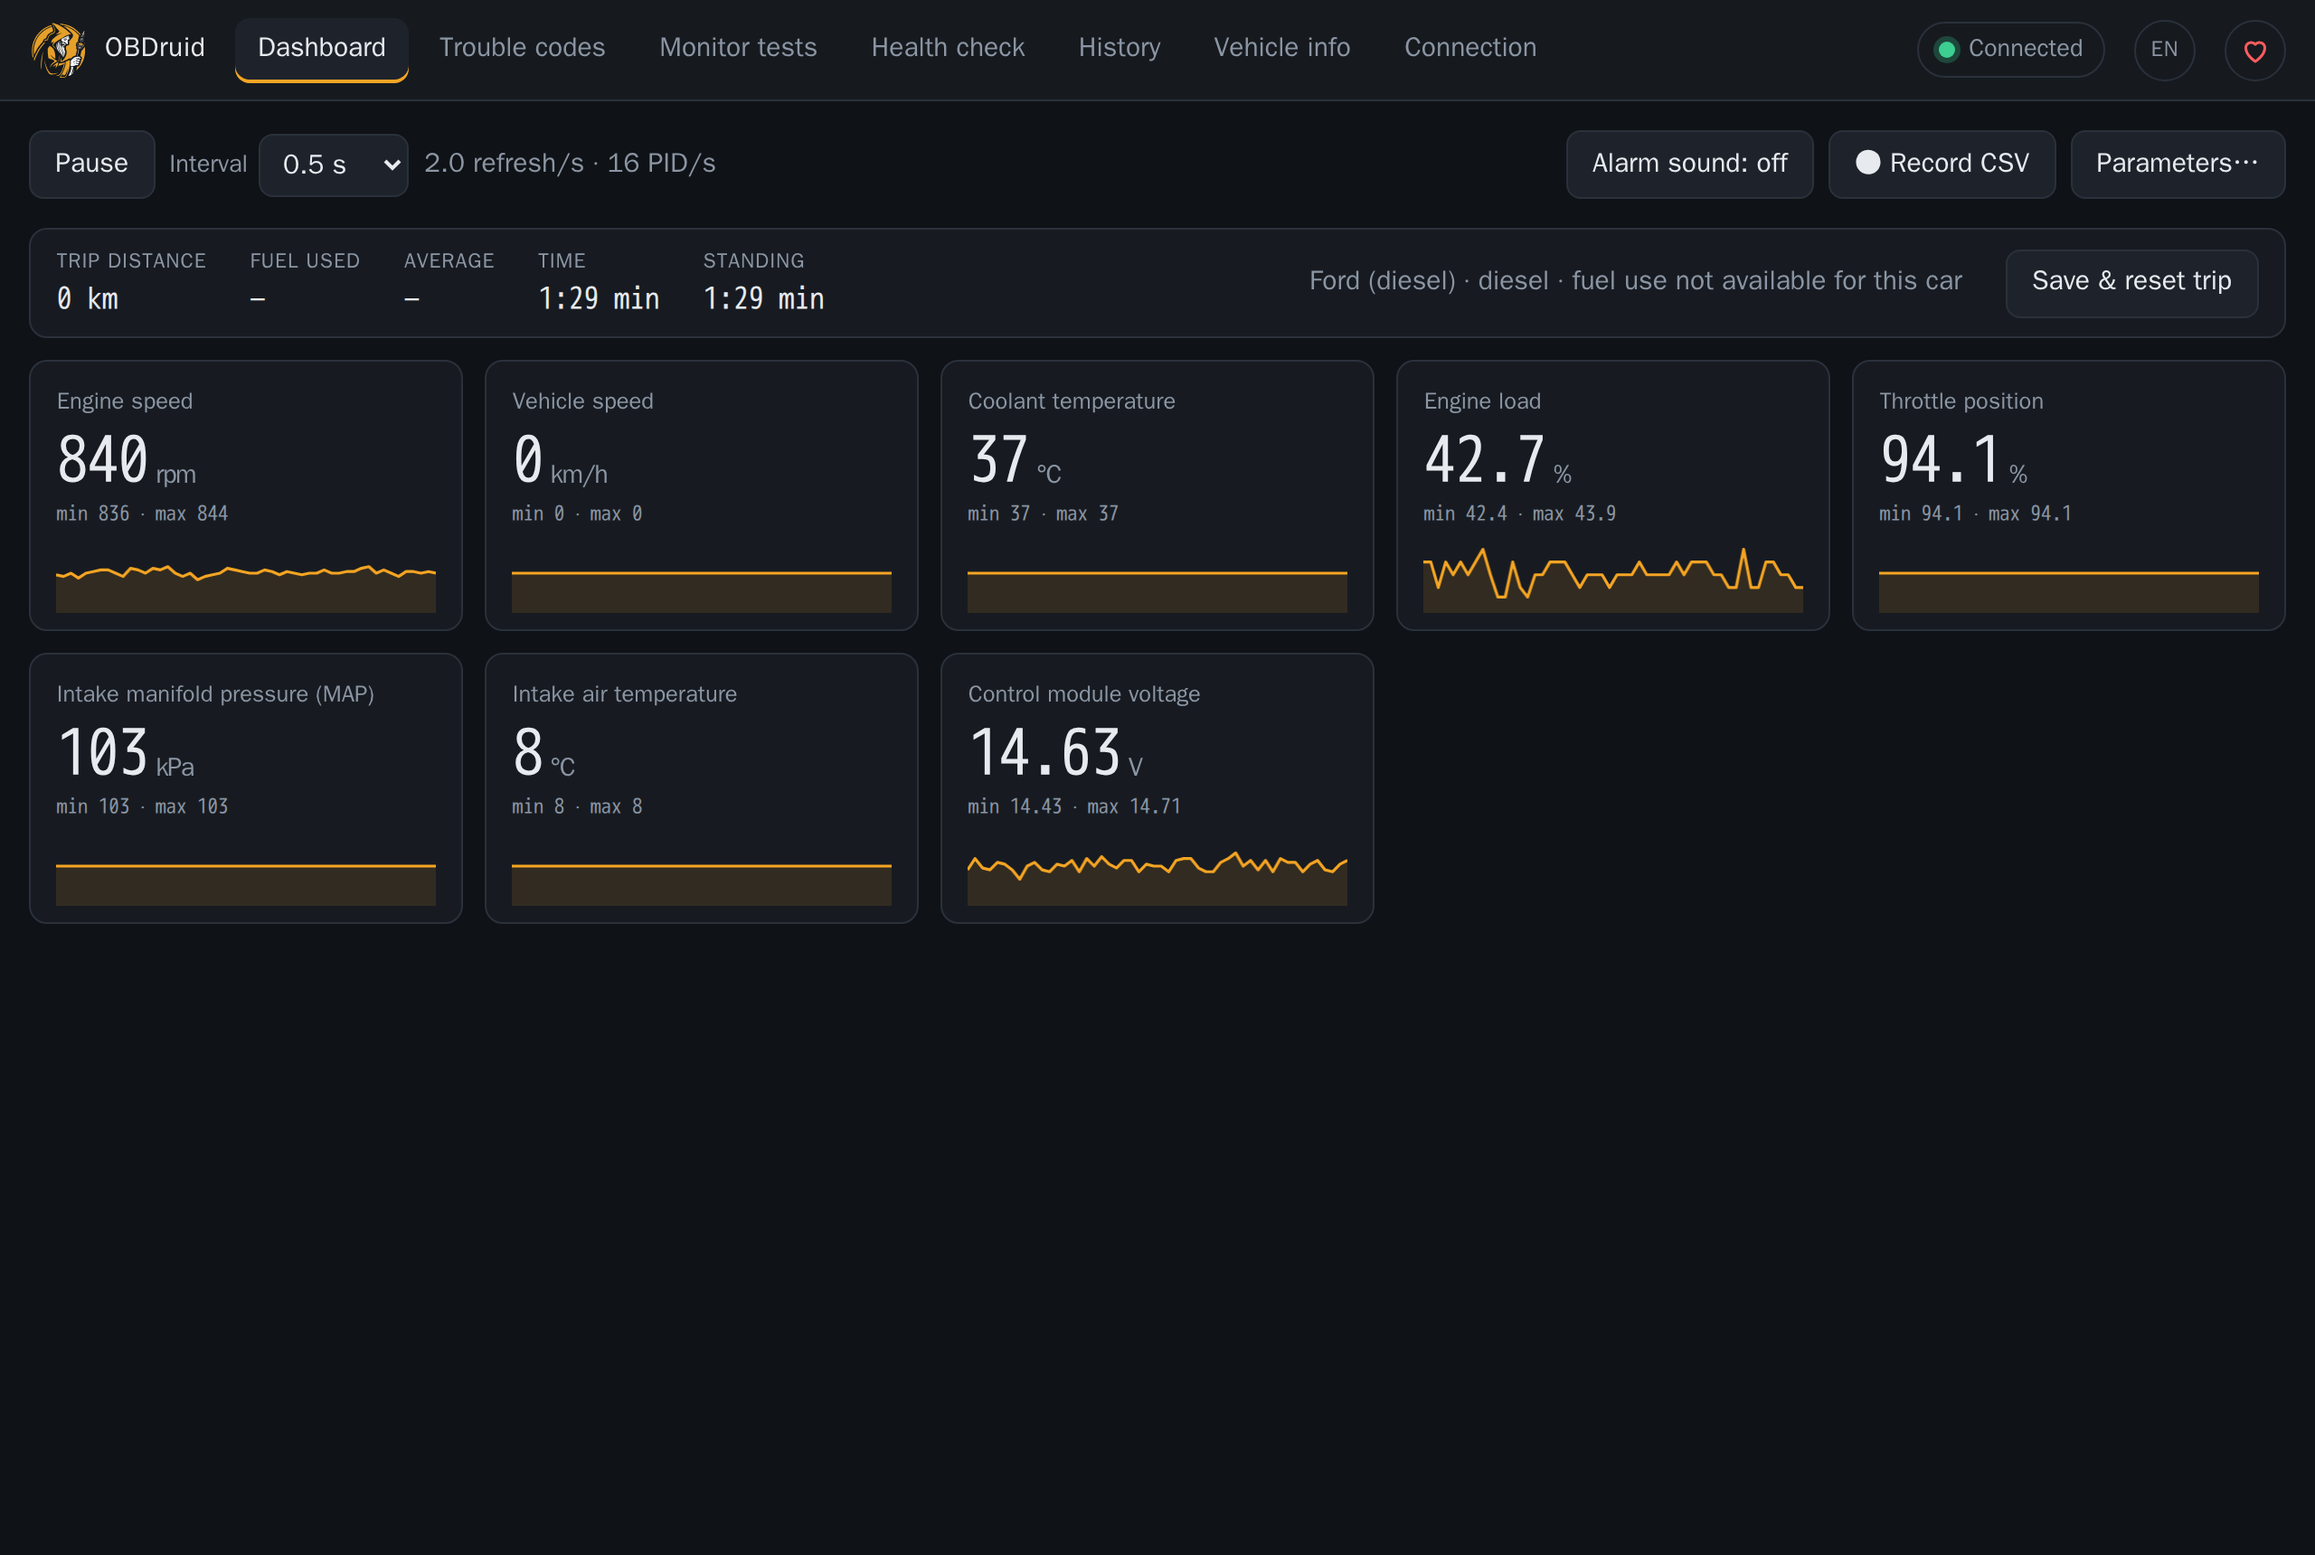
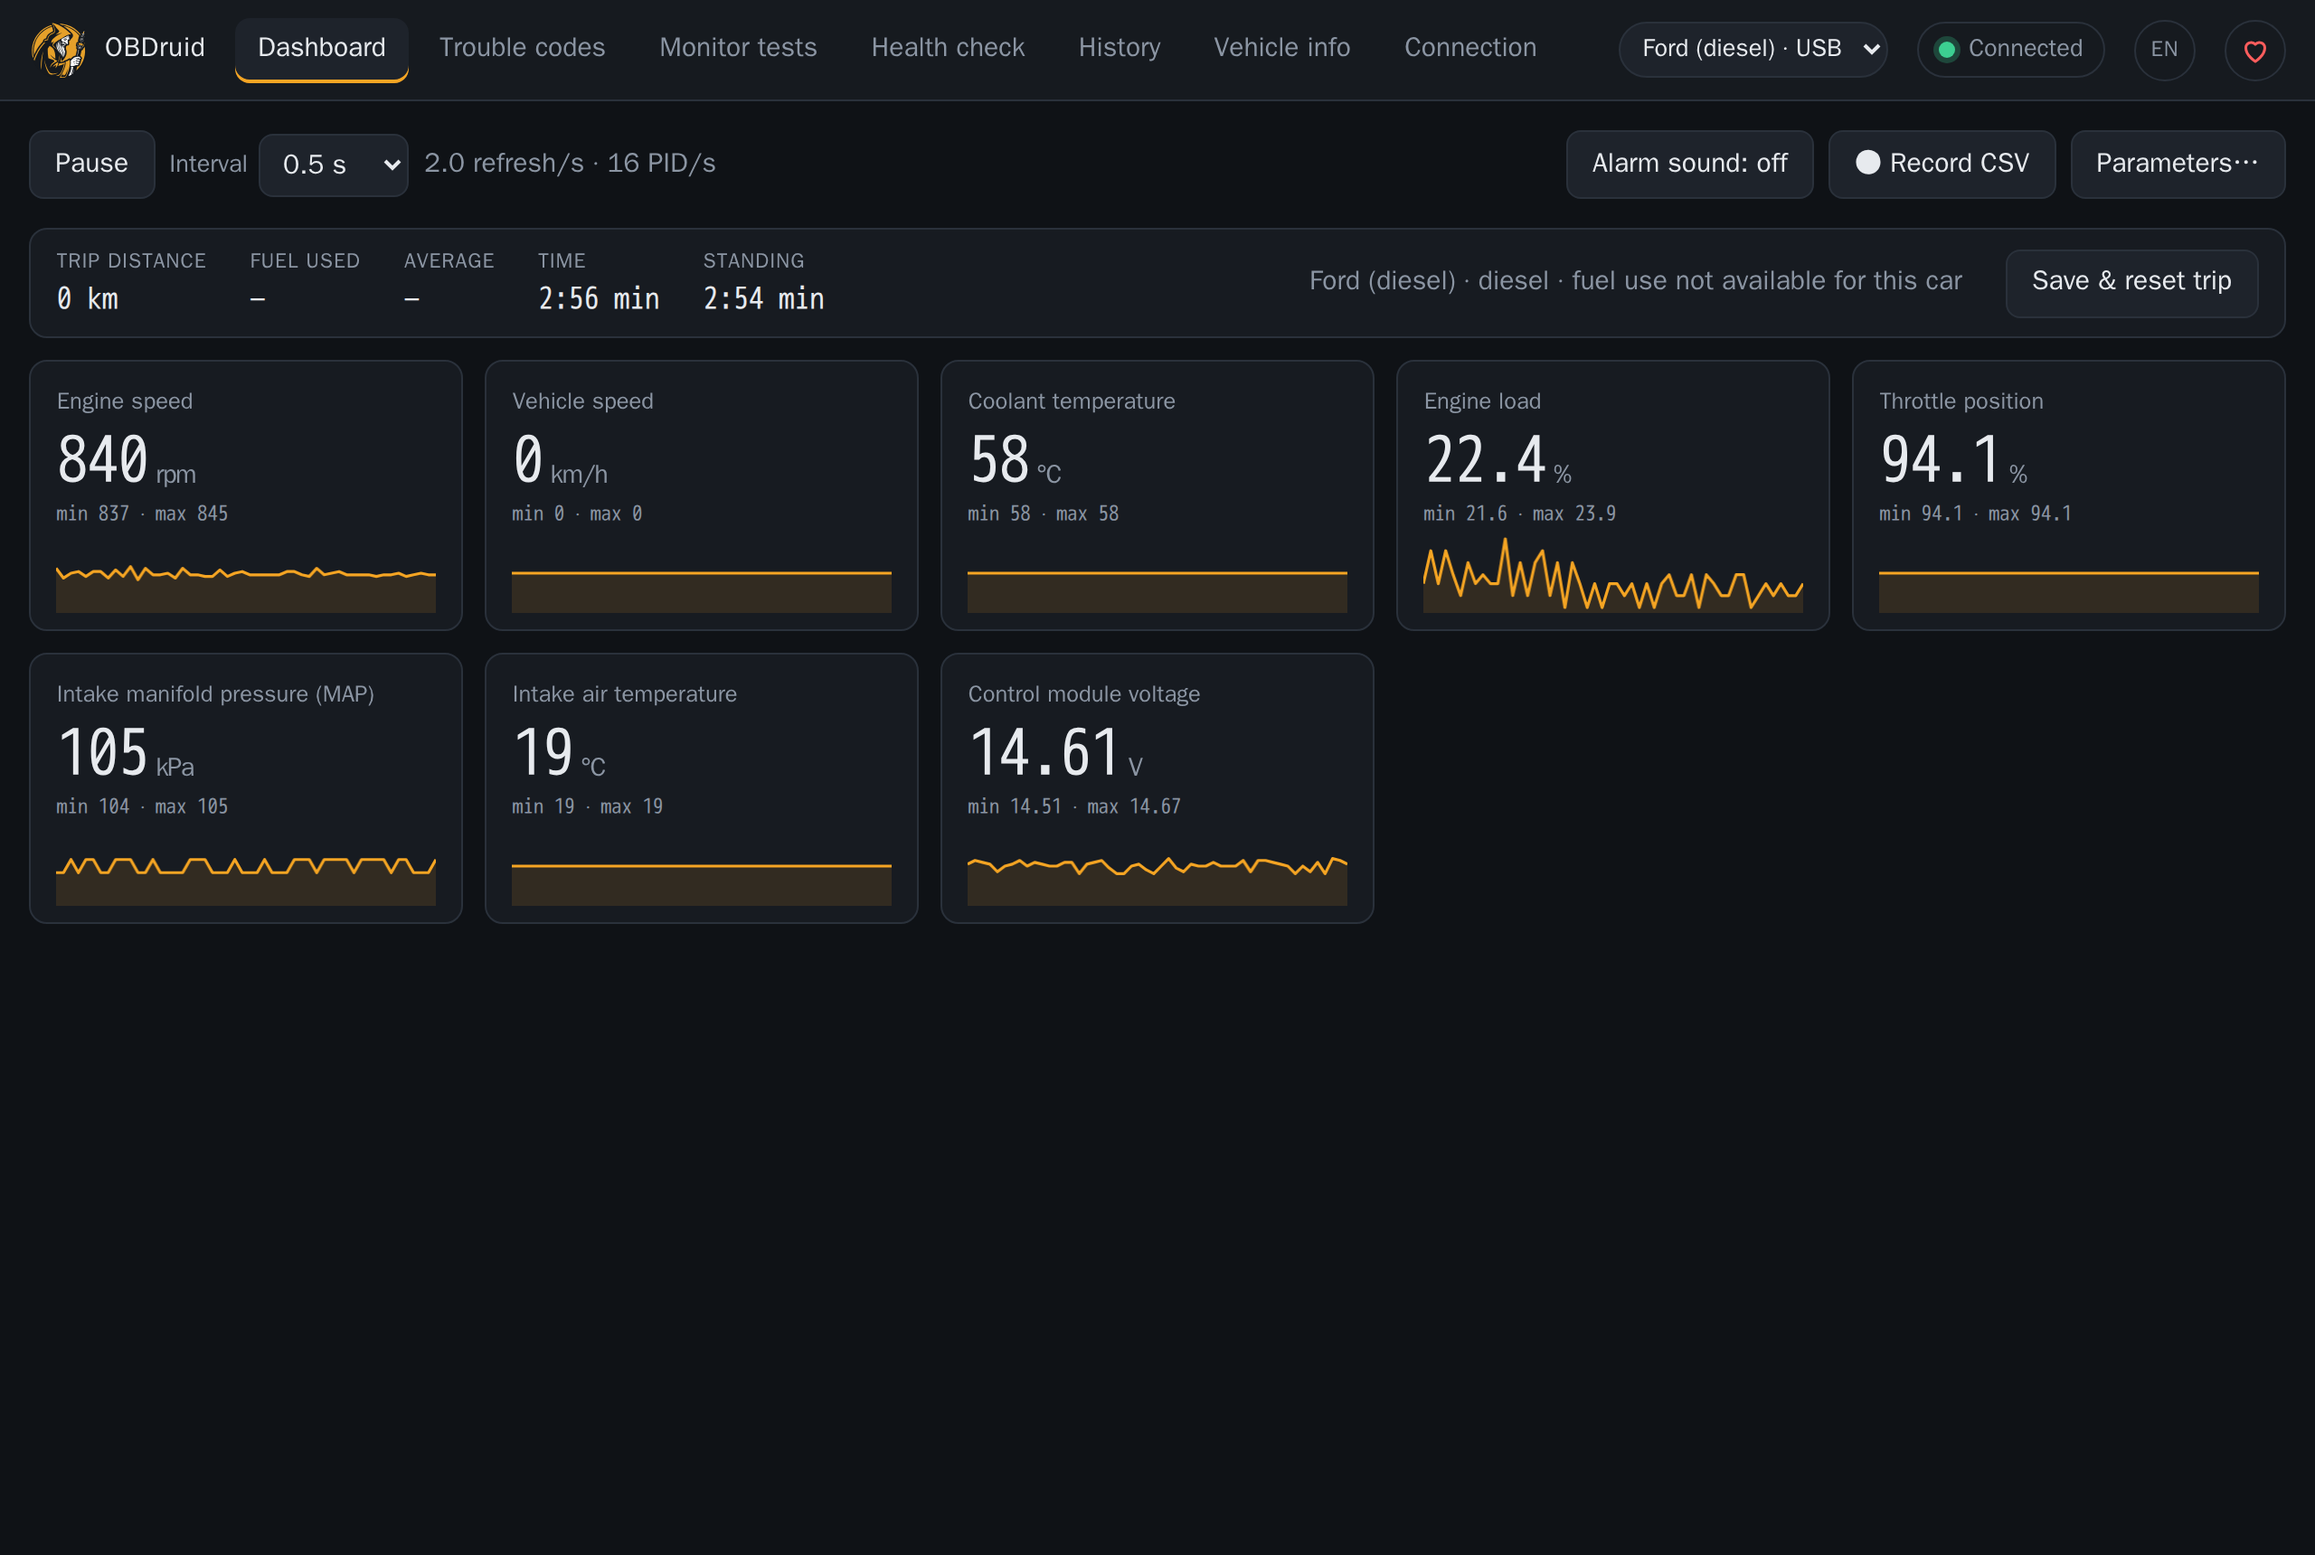
Real-car screenshots with the car switcher; dashboard fixes for switching and Bluetooth
- charts and min/max are no longer carried over to another car after a switch
- a missed reading (common over Bluetooth) keeps the last value, dimmed, instead of a dash
- screenshots retaken on both cars (diesel over USB, petrol over Bluetooth; VIN masked)
- README: several cars with the switcher

diff --git a/src/obdruid/web/static/app.js b/src/obdruid/web/static/app.js
@@ -316,7 +316,10 @@ function buildGauge(key, cfg) {
 function buildTiles() {
   const grid = $("#tiles");
   grid.replaceChildren();
-  const old = ui.series;
+  // keep the charts and min/max when tiles are rearranged, but never carry them over to another car
+  const carId = ui.vehicle ? ui.vehicle.id : null;
+  const old = ui.seriesCar === carId ? ui.series : {};
+  ui.seriesCar = carId;
   ui.series = {};
   for (const key of ui.keys) {
     const p = paramOf(key);
@@ -469,6 +472,8 @@ function updateTiles(readings) {
       } else {
         drawSpark($("canvas", tile), s.values);
       }
+    } else if (r.value === null && s.values.length) {
+      // missed reading (common over Bluetooth): keep the last value, dimmed by the "stale" class
     } else {
       valueBox.classList.toggle("text", r.value !== null);
       num.textContent = fmt(r.value);

diff --git a/README.md b/README.md
@@ -84,6 +84,8 @@ Wireless adapters are used through a port address instead of a serial device:
 | Bluetooth LE | `ble://AA:BB:CC:DD:EE:FF` | Linux. Works with dual-mode adapters too; add `?type=random` for random addresses. |
 | Wi-Fi | `socket://192.168.0.10:35000` | Join the adapter's Wi-Fi network first. |
 
+![Petrol car over Bluetooth, picked with the car switcher](docs/screenshots/car-bluetooth-dashboard.png)
+
 Find the address with a scan – in the web UI (*Connection → Find Bluetooth adapters*, then click the
 adapter) or in a terminal:
 
@@ -92,6 +94,10 @@ obdruid ports --scan                               # serial ports + nearby Bluet
 obdruid -p ble://81:23:45:67:89:BA info            # use the address as the port
 obdruid -p rfcomm://01:23:45:67:89:BA live
 ```
+
+Several cars? Each vehicle profile remembers its adapter: pick the car in the switcher at the top
+and OBDruid connects to it (e.g. a diesel on USB and a petrol car on Bluetooth). A car that does not
+report its VIN is recognised by the adapter it was last connected through.
 
 Tips:
 
